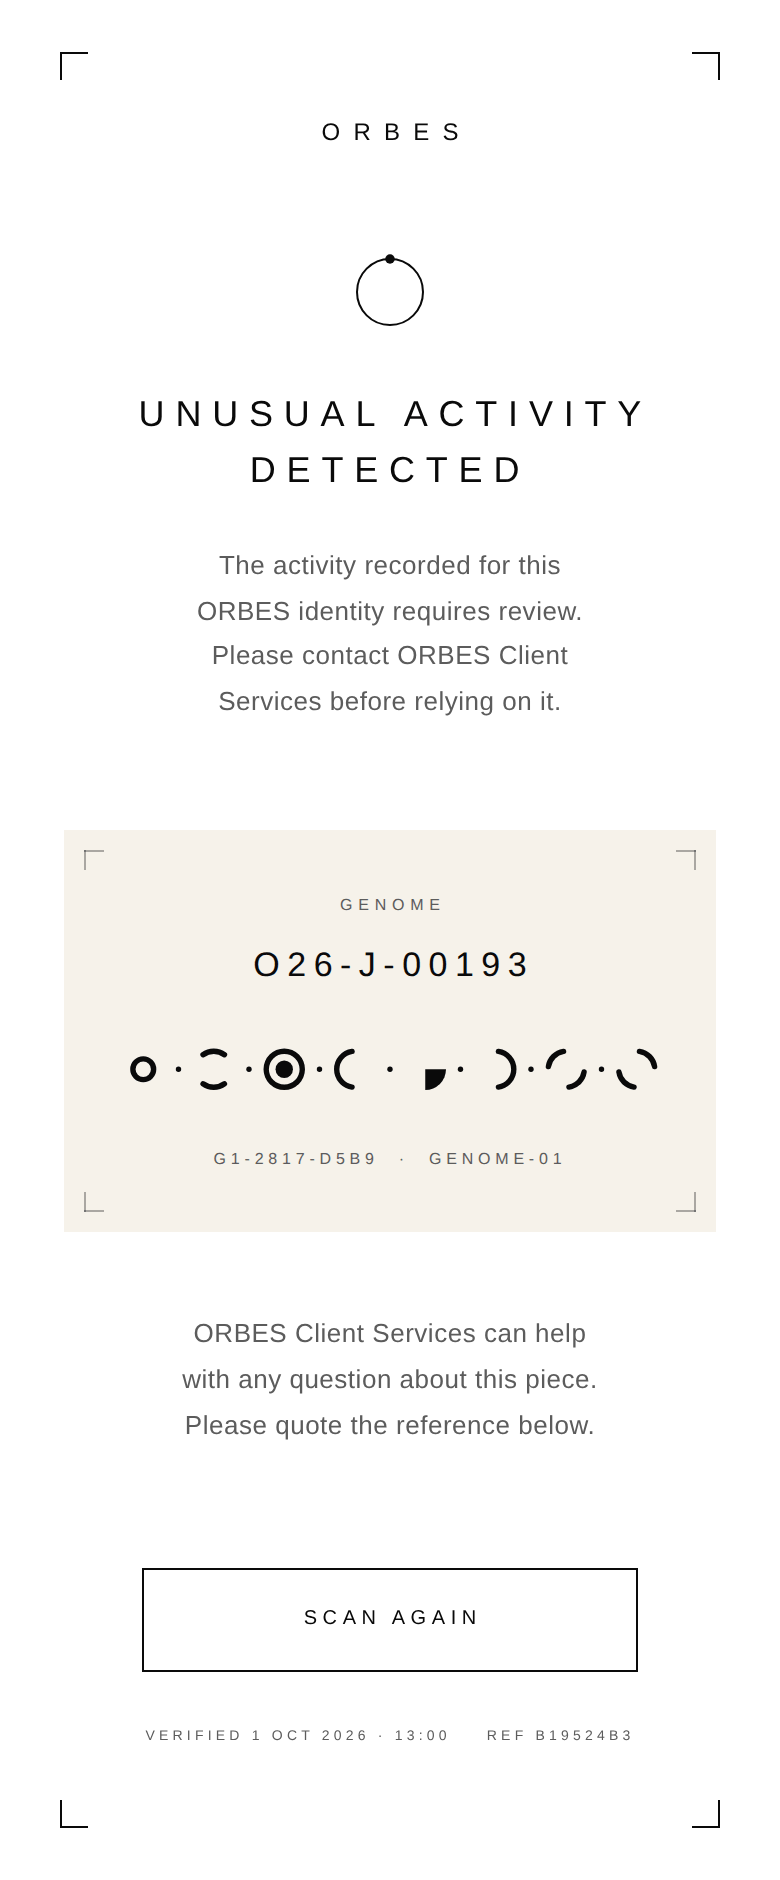
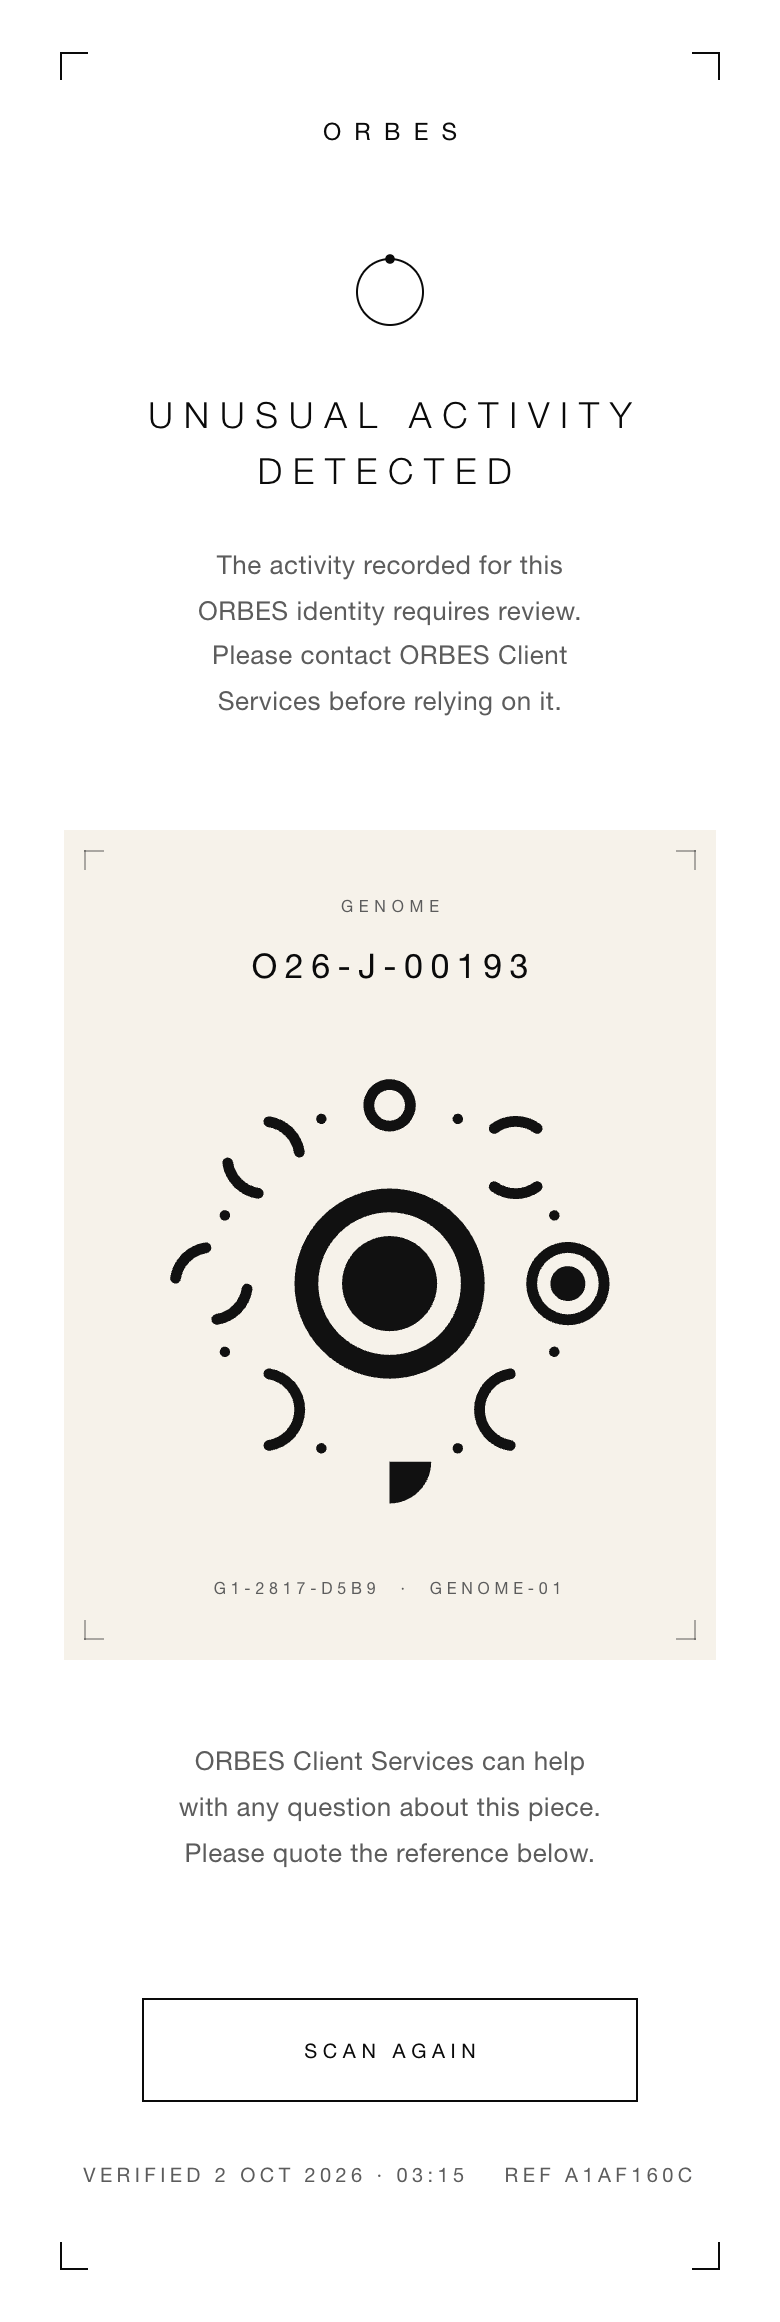
Verify: the result page draws the GENOME in its orbit around the SEAL, as on the piece
genomeBlock asks genomeRow for the orbit layout, the figure of the console
and of the code (glyph 0 at north, then clockwise, absolute orientation);
the fingerprint cross-check and the aria-label are unchanged. The orbit is
a centred square of min(64vw, 260px) on the ivory plate, whose margins do
not change: glyphs of about 43 px, 42 px on a 390 px phone (21 px before).
No polaris marker: it would come only as a renderGenomeSvg option after
brand validation.

Tests: the e2e selectors no longer depend on the layout and check the seal
layer, the eight genome groups and the drawn size; a brand test pins the
orbit call, its identity with the console figure and the CSS size.
Docs: ORBES-GENOME-SPEC §5.2, BRAND §2.3, §2.6 and §5; the two captures
that show the GENOME are regenerated.

diff --git a/genome/test/web/verify.brand.test.ts b/genome/test/web/verify.brand.test.ts
@@ -9,8 +9,9 @@ import { fileURLToPath } from 'node:url';
 import { describe, expect, it } from 'vitest';
 import { CODE01 } from '../../src/core/code/profile.js';
 import { ORBES_CODE_STYLES } from '../../src/core/code/styles.js';
-import { computeGenome } from '../../src/core/genome/index.js';
+import { computeGenome, genomeLayout } from '../../src/core/genome/index.js';
 import { packIdentity } from '../../src/core/identity.js';
+import { genomeFigureMarkup } from '../../src/web/admin/ui/figures.js';
 import { genomeRowMarkup } from '../../src/web/verify/genome-view.js';
 import { registrationStatus } from '../../src/web/verify/view-model.js';
 
@@ -33,6 +34,9 @@ function rule(css: string, selector: string): Record<string, string> {
   return out;
 }
 
+const G184 = computeGenome(packIdentity({ year: 2026, categoryIndex: 1, serial: 184 }), 1);
+const GENOME_184 = { id: 'O26-J-00184', version: 'GENOME-01', versionNumber: 1, fingerprint: G184.fingerprint, glyphs: [...G184.glyphs], ids: [...G184.ids] };
+
 const tokens: Record<string, string> = {};
 for (const m of brand.matchAll(/^\s*(--[\w-]+):\s*([^;]+);/gm)) tokens[m[1]] = m[2].trim();
 const resolve = (v: string): string => v.replace(/var\((--[\w-]+)\)/g, (_, t: string) => tokens[t] ?? t);
@@ -46,11 +50,12 @@ describe('verify app: brand deviations (BRAND-DESIGN-SYSTEM §8)', () => {
   });
 
   it('draws the GENOME on its ivory plate in the ivory colourway ink (#111111), as it is printed', () => {
-    const g = computeGenome(packIdentity({ year: 2026, categoryIndex: 1, serial: 184 }), 1);
-    const markup = genomeRowMarkup({ id: 'O26-J-00184', version: 'GENOME-01', versionNumber: 1, fingerprint: g.fingerprint, glyphs: [...g.glyphs], ids: [...g.ids] });
-    expect(markup).not.toBeNull();
-    const inks = new Set([...markup!.matchAll(/(?:fill|stroke)="([^"]+)"/g)].map((m) => m[1]).filter((v) => v !== 'none'));
-    expect([...inks]).toEqual([ORBES_CODE_STYLES.ivory.ink]);
+    for (const layout of ['orbit', 'row'] as const) {
+      const markup = genomeRowMarkup(GENOME_184, { layout });
+      expect(markup, layout).not.toBeNull();
+      const inks = new Set([...markup!.matchAll(/(?:fill|stroke)="([^"]+)"/g)].map((m) => m[1]).filter((v) => v !== 'none'));
+      expect([...inks], layout).toEqual([ORBES_CODE_STYLES.ivory.ink]);
+    }
     expect(rule(styles, '.result__genome').background).toBe('var(--ivory)');
     expect(tokens['--ivory']?.toLowerCase()).toBe(ORBES_CODE_STYLES.ivory.paper.toLowerCase());
   });
@@ -106,6 +111,38 @@ describe('verify app: brand deviations (BRAND-DESIGN-SYSTEM §8)', () => {
       const used = [brand, styles, admin].some((css) => css.includes(`var(${t})`));
       expect(used, t).toBe(true);
     }
+  });
+});
+
+describe('verify app: the GENOME in its orbit, as on the piece (BRAND-DESIGN-SYSTEM §2.3, §2.6)', () => {
+  it('draws the result GENOME in the orbit layout, the figure of the console and of the code', () => {
+    const view = readFileSync(join(WEB, 'verify/genome-view.ts'), 'utf8');
+    const block = view.slice(view.indexOf('export function genomeBlock'));
+    expect(block).toContain("genomeRow(m, { layout: 'orbit' })");
+    // The same core renderer, the same ink and the same geometry as the console's product page.
+    const json = { id: 'g', productId: GENOME_184.id, version: 1, versionLabel: 'GENOME-01', value: G184.value, glyphs: [...G184.glyphs], ids: [...G184.ids], pattern: '', fingerprint: G184.fingerprint, createdAt: '2026-01-01T00:00:00.000Z' };
+    expect(genomeRowMarkup(GENOME_184, { layout: 'orbit' })).toBe(genomeFigureMarkup(json, 'orbit'));
+    // The seal at the centre, then one group per glyph (glyph 0 at north, clockwise: genomeLayout).
+    const markup = genomeRowMarkup(GENOME_184, { layout: 'orbit' })!;
+    expect(markup.match(/data-layer="seal"/g)).toHaveLength(1);
+    expect(markup.match(/data-layer="genome"/g)).toHaveLength(CODE01.genome.count);
+  });
+
+  it('sizes the orbit as a centred square of min(64vw, 260px): glyphs of about 43 px, never under the 12 px floor', () => {
+    const orbit = rule(styles, '.genome-svg--orbit');
+    expect(orbit.width).toBe('min(64vw, 260px)');
+    expect(orbit['aspect-ratio']).toBe('1');
+    expect(orbit.margin).toBe('0 auto');
+    const { viewBox, glyphRadius } = genomeLayout(G184, 'orbit');
+    expect(viewBox.w).toBe(viewBox.h);
+    const glyphPx = (side: number) => (side * 2 * glyphRadius) / viewBox.w;
+    expect(glyphPx(260)).toBeCloseTo(43, 0);
+    // 390 px phone: 64vw = 249.6 px; the smallest phone in use (320 px) still draws 34 px glyphs.
+    expect(glyphPx(0.64 * 390)).toBeGreaterThan(41);
+    expect(glyphPx(0.64 * 320)).toBeGreaterThan(12);
+    // The ivory plate keeps its margins (§2.5: 34 / 22 / 28 px).
+    expect(rule(styles, '.result__genome').padding).toBe('34px 22px 28px');
+    expect(rule(styles, '.result__genome')['margin-top']).toBe('52px');
   });
 });
 

diff --git a/genome/src/web/verify/genome-view.ts b/genome/src/web/verify/genome-view.ts
@@ -1,7 +1,12 @@
 /**
- * The GENOME glyph row, drawn by the core renderer (renderGenomeSvg) exactly
- * as it is defined for print, so the screen, the PDF certificate and the
- * printed code show the same eight glyphs.
+ * The GENOME figure, drawn by the core renderer (renderGenomeSvg) exactly as
+ * it is defined for print, so the screen, the PDF certificate and the printed
+ * code show the same eight glyphs.
+ *
+ * The result page draws them in their orbit around the SEAL, as they sit on
+ * the piece and in the console (glyph 0 at north, then clockwise, each glyph
+ * in its absolute orientation): the customer compares the screen with the
+ * object at a glance, without unrolling the orbit in their head.
  *
  * The glyphs come from the server's verification outcome. They are recomputed
  * here only to cross-check the fingerprint the server sent: a mismatch means
@@ -27,10 +32,10 @@ export function genomeFromModel(m: GenomeModel): Genome | null {
 }
 
 /**
- * SVG markup of the glyph row, or null when it cannot be drawn faithfully.
- * The GENOME sits on an ivory plate (`.result__genome`), so it is drawn in
- * the ivory colourway's ink, exactly as the ivory code prints it
- * (BRAND-DESIGN-SYSTEM §2.4).
+ * SVG markup of the GENOME (glyph row by default, or the orbit), or null when
+ * it cannot be drawn faithfully. The GENOME sits on an ivory plate
+ * (`.result__genome`), so it is drawn in the ivory colourway's ink, exactly
+ * as the ivory code prints it (BRAND-DESIGN-SYSTEM §2.4).
  */
 export function genomeRowMarkup(m: GenomeModel, opts: { layout?: 'row' | 'orbit' } = {}): string | null {
   const genome = genomeFromModel(m);
@@ -38,7 +43,7 @@ export function genomeRowMarkup(m: GenomeModel, opts: { layout?: 'row' | 'orbit'
   return renderGenomeSvg(genome, { layout: opts.layout ?? 'row', ink: ORBES_CODE_STYLES.ivory.ink, paper: null });
 }
 
-/** The glyph row as an inline SVG (ivory colourway ink), or null when it cannot be drawn faithfully. */
+/** The GENOME as an inline SVG (ivory colourway ink), or null when it cannot be drawn faithfully. */
 export function genomeRow(m: GenomeModel, opts: { layout?: 'row' | 'orbit' } = {}): SVGSVGElement | null {
   const markup = genomeRowMarkup(m, opts);
   if (markup === null) return null;
@@ -51,15 +56,15 @@ export function genomeRow(m: GenomeModel, opts: { layout?: 'row' | 'orbit' } = {
   return svg;
 }
 
-/** The GENOME block: label, product id, glyph row, fingerprint. */
+/** The GENOME block: label, product id, the glyphs in their orbit around the SEAL, fingerprint. */
 export function genomeBlock(m: GenomeModel): HTMLElement {
-  const row = genomeRow(m);
+  const figure = genomeRow(m, { layout: 'orbit' });
   return h(
     'section',
     { class: 'genome', attrs: { 'aria-labelledby': 'genome-label' } },
     h('h2', { class: 'genome__label micro', id: 'genome-label', text: 'GENOME' }),
     h('p', { class: 'genome__id', text: m.id }),
-    row ? h('div', { class: 'genome__glyphs' }, row) : null,
+    figure ? h('div', { class: 'genome__glyphs' }, figure) : null,
     h('p', { class: 'genome__meta nano soft' }, h('span', { text: m.fingerprint }), h('span', { class: 'sep', attrs: { 'aria-hidden': 'true' }, text: '·' }), h('span', { text: m.version })),
   );
 }

diff --git a/genome/test/web/verify.e2e.test.ts b/genome/test/web/verify.e2e.test.ts
@@ -14,9 +14,10 @@ import { dirname, join } from 'node:path';
 import { fileURLToPath } from 'node:url';
 import type { Browser, ConsoleMessage, Locator, Page } from 'playwright-core';
 import { afterAll, beforeAll, describe, expect, it } from 'vitest';
+import { genomeLayout } from '../../src/core/genome/render.js';
 import type { IssueResult } from '../../src/server/services/issuance.js';
 import { SYSTEM_ACTOR } from '../../src/server/types.js';
-import { CHROMIUM_PATH, launchChromium, mobileContext, startVerifyServer, writeCameraY4m, writeCodePng, type VerifyServer } from './verify.harness.js';
+import { CHROMIUM_PATH, launchChromium, MOBILE_VIEWPORT, mobileContext, startVerifyServer, writeCameraY4m, writeCodePng, type VerifyServer } from './verify.harness.js';
 
 const OUT_DIR = join(dirname(fileURLToPath(import.meta.url)), '..', '..', 'out');
 const HAS_CHROMIUM = existsSync(CHROMIUM_PATH);
@@ -130,8 +131,21 @@ describe.skipIf(!HAS_CHROMIUM)('verify web app (Chromium, mobile)', () => {
     await textOf(page.locator('.genome__id'), plain.product.productId);
     expect(plain.product.productId).toBe('O26-J-00184');
     await textsOf(page.locator('.lines__line'), ['MONOLITHE', 'RING', 'JEWELRY', '925 STERLING SILVER', 'CREATED 2026']);
-    // The genome row is drawn from the core renderer, one path group per glyph.
-    await attrOf(page.locator('.genome-svg--row'), 'aria-label', new RegExp(plain.genome.fingerprint));
+    // The GENOME is drawn from the core renderer, in its orbit around the SEAL as on the piece:
+    // the seal layer, then one path group per glyph.
+    const genome = page.locator('.genome__glyphs .genome-svg');
+    await attrOf(genome, 'aria-label', new RegExp(plain.genome.fingerprint));
+    await attrOf(genome, 'class', /\bgenome-svg--orbit\b/);
+    await countOf(genome.locator('g[data-layer="seal"]'), 1);
+    await countOf(genome.locator('g[data-layer="genome"]'), 8);
+    // A square of min(64vw, 260px): glyphs of about 42 px on this 390 px phone (43 px from 407 px).
+    const box = await genome.boundingBox();
+    expect(box).not.toBeNull();
+    expect(box!.width).toBeCloseTo(Math.min(0.64 * MOBILE_VIEWPORT.width, 260), 0);
+    expect(box!.height).toBeCloseTo(box!.width, 0);
+    expect(box!.x + box!.width / 2).toBeCloseTo(MOBILE_VIEWPORT.width / 2, 0);
+    const orbit = genomeLayout(plain.genome, 'orbit');
+    expect((box!.width * 2 * orbit.glyphRadius) / orbit.viewBox.w).toBeGreaterThan(41);
     await textsOf(page.getByRole('tab'), ['PRODUCT', 'WARRANTY', 'CARE', 'OWNERSHIP']);
     await attrOf(page.getByRole('tab', { name: 'PRODUCT' }), 'aria-selected', 'true');
     // Honest limits are stated on every positive result.

diff --git a/genome/test/e2e/camera-scan.test.ts b/genome/test/e2e/camera-scan.test.ts
@@ -208,7 +208,11 @@ describe.skipIf(!HAS_CHROMIUM)('E2E camera scan: real browser, fake camera, real
         await textOf(page.locator('#result-title'), 'AUTHENTIC');
         await textOf(page.locator('.genome__id'), 'O26-J-00184');
         expect((await page.locator('.lines__line').allInnerTexts()).map(norm)).toEqual(['MONOLITHE', 'RING', 'JEWELRY', '925 STERLING SILVER', 'CREATED 2026']);
-        expect(await page.locator('.genome-svg--row').getAttribute('aria-label')).toContain(issued.genome.fingerprint);
+        // The GENOME in its orbit around the SEAL, as on the piece: the seal layer and one group per glyph.
+        const genome = page.locator('.genome__glyphs .genome-svg');
+        expect(await genome.getAttribute('aria-label')).toContain(issued.genome.fingerprint);
+        expect(await genome.locator('g[data-layer="seal"]').count()).toBe(1);
+        expect(await genome.locator('g[data-layer="genome"]').count()).toBe(8);
         expect((await page.getByRole('tab').allInnerTexts()).map(norm)).toEqual(['PRODUCT', 'WARRANTY', 'CARE', 'OWNERSHIP']);
 
         const timeline = await readTimeline(page);

diff --git a/genome/src/web/verify/styles.css b/genome/src/web/verify/styles.css
@@ -644,6 +644,15 @@ h1[tabindex="-1"]:focus {
   height: auto;
 }
 
+/* The orbit, as on the piece: a centred square. A glyph is 3.5 u of the 21 u
+   figure, so 260 px draws it at about 43 px (42 px on a 390 px phone). */
+.genome-svg--orbit {
+  width: min(64vw, 260px);
+  height: auto;
+  aspect-ratio: 1;
+  margin: 0 auto;
+}
+
 .genome__meta {
   display: flex;
   justify-content: center;

diff --git a/docs/BRAND-DESIGN-SYSTEM.md b/docs/BRAND-DESIGN-SYSTEM.md
@@ -111,8 +111,10 @@ Two layouts, both drawn by the core renderer `renderGenomeSvg`:
 
 | Layout | Geometry | Used in |
 |---|---|---|
-| **Row** | Glyph pitch 3.4 R; separator points r 0.13 R between glyphs; margin 0.7 R | Verification result (the GENOME specimen) |
-| **Orbit** | Glyph 0 at north, then clockwise every 45° on radius 7.5 u; glyph R = 1.75 u; separator points r 0.22 u at the half-steps; SEAL at the centre; margin 1.25 u | Console product page and generator; the inner orbit of every code |
+| **Row** | Glyph pitch 3.4 R; separator points r 0.13 R between glyphs; margin 0.7 R | Certificate card (§7); console genome list |
+| **Orbit** | Glyph 0 at north, then clockwise every 45° on radius 7.5 u; glyph R = 1.75 u; separator points r 0.22 u at the half-steps; SEAL at the centre; margin 1.25 u | Verification result (the GENOME specimen); console product page and generator; the inner orbit of every code |
+
+**On the verification page, the orbit** (since 2026-10-02). The GENOME is the one mark that belongs to a single piece; the result page draws it as it sits on the piece, around the SEAL, in the same order and orientation, so the customer compares screen and object at a glance instead of unrolling the orbit in their head. It is the same figure as the console's (`genomeBlock` calls `genomeRow(m, { layout: 'orbit' })`, `genome/src/web/verify/genome-view.ts`; the fingerprint cross-check and the spoken label are unchanged). No north marker is drawn: glyph 0 is at the top, where it sits when the code's polaris is at the top left. A polaris marker would come only as an option of `renderGenomeSvg`, after brand validation, and would not change the console figure.
 
 Specimen of the vocabulary: [`assets/genome-01-vocabulary.svg`](assets/genome-01-vocabulary.svg) (§7).
 
@@ -156,7 +158,7 @@ The physical size of a code is the side of its 50 u square, quiet zone included.
 | ORBES CODE, light on dark (white on black, foil on dark leather) | 25 mm, only after a passed physical test-sheet run | print-size matrix: simulated minimum 20 mm, recommended 25 mm for white on black. |
 | Absolute floor, whatever a test shows | 17.5 mm | [scan matrix](reports/scan-matrix.md): ≥ 95 % from 3.50 px/u under the low-light preset at ≈ 10 px/mm, "do not print below 17.5 mm … prefer 25 mm or more". |
 | GENOME glyph, printed standalone | 2.1 mm glyph diameter | Its size inside a 30 mm code (3.5 u × 0.6 mm). No standalone print study exists. |
-| GENOME glyph, on screen | 12 px glyph diameter | [Symbol study](reports/genome-symbol-study.md): 100 % template classification from 12 px (99.09 % at 8 px). The verify specimen renders glyphs at ≈ 21 px on a 390 px screen. |
+| GENOME glyph, on screen | 12 px glyph diameter | [Symbol study](reports/genome-symbol-study.md): 100 % template classification from 12 px (99.09 % at 8 px). The verify specimen draws the orbit as a centred square of `min(64vw, 260px)` (`.genome-svg--orbit`): a glyph is 3.5 u of 21 u, so ≈ 43 px from a 407 px screen, ≈ 42 px on a 390 px one and ≈ 34 px on a 320 px one (it was ≈ 21 px in the row layout). |
 | ORBES SEAL, printed standalone | 4.8 mm diameter | Its size inside a 30 mm code (8 u). |
 
 The renderer accepts 10–500 mm (`ARTIFACT_LIMITS`). That is a technical bound for memory and resolution, not a brand permission: the console warns under 30 mm and refuses under 15 mm unless the operator checks *Test print* (`artifactSizeAdvice`, `genome/src/web/admin/model/generator.ts`).
@@ -565,7 +567,7 @@ The scanner decodes only the square under the reticle (×1.45 margin), at most e
 
 <table>
 <tr>
-<td width="40%"><img src="assets/ui/verify-04-result-first-registration.png" width="300" alt="Result for O26-J-00184: AUTHENTIC — FIRST REGISTRATION, GENOME specimen on ivory, product lines, tabs with OWNERSHIP selected, footnote"></td>
+<td width="40%"><img src="assets/ui/verify-04-result-first-registration.png" width="300" alt="Result for O26-J-00184: AUTHENTIC — FIRST REGISTRATION, GENOME specimen on ivory with the eight glyphs in their orbit around the seal, product lines, tabs with OWNERSHIP selected, footnote"></td>
 <td valign="top">
 <b>4 · Result, O26-J-00184 — AUTHENTIC · FIRST REGISTRATION.</b> From top to bottom:
 <ol>
@@ -573,12 +575,12 @@ The scanner decodes only the square under the reticle (×1.45 margin), at most e
 <li>the state mark (here the authentic seal echo);</li>
 <li>the title, split at the dash into a 24 px main word and a tracked sub-title;</li>
 <li>one sentence from the server;</li>
-<li>the <b>GENOME specimen</b>: an ivory plate framed by hairline brackets, with the product id, the eight glyphs drawn by the core renderer (the same function as print) and the fingerprint <code>G1-E1DC-BE52 · GENOME-01</code>;</li>
+<li>the <b>GENOME specimen</b>: an ivory plate framed by hairline brackets, with the product id, the eight glyphs in their orbit around the SEAL as on the piece (glyph 0 at north, then clockwise), drawn by the core renderer (the same function as print), and the fingerprint <code>G1-E1DC-BE52 · GENOME-01</code>;</li>
 <li>the product lines MODEL / TYPE / CATEGORY / MATERIAL / CREATED YYYY;</li>
 <li>the tabs PRODUCT · WARRANTY · CARE · OWNERSHIP, opening on OWNERSHIP because registration is open (PRODUCT otherwise);</li>
 <li>SCAN ANOTHER, the honest footnote, and the VERIFIED · REF line.</li>
 </ol>
-The client recomputes the genome from the glyphs it received and draws the row only if it matches the server's fingerprint. Product lines and tabs appear only for the four AUTHENTIC states; the GENOME appears whenever the server sends it (authentic, unusual activity, revoked).
+The client recomputes the genome from the glyphs it received and draws the orbit only if it matches the server's fingerprint. Product lines and tabs appear only for the four AUTHENTIC states; the GENOME appears whenever the server sends it (authentic, unusual activity, revoked).
 </td>
 </tr>
 </table>
@@ -602,7 +604,7 @@ Tabs follow the ARIA tablist pattern (arrow keys, Home, End, roving tab index); 
 <table>
 <tr>
 <td width="33%"><img src="assets/ui/verify-09-verifying.png" width="250" alt="VERIFYING… with a moon orbiting a faint ring"></td>
-<td width="33%"><img src="assets/ui/verify-10-unusual-activity.png" width="250" alt="UNUSUAL ACTIVITY DETECTED for O26-J-00193, caution mark, GENOME specimen, help text, SCAN AGAIN"></td>
+<td width="33%"><img src="assets/ui/verify-10-unusual-activity.png" width="250" alt="UNUSUAL ACTIVITY DETECTED for O26-J-00193, caution mark, GENOME specimen in its orbit, help text, SCAN AGAIN"></td>
 <td width="33%"><img src="assets/ui/verify-11-invalid-signature.png" width="250" alt="INVALID SIGNATURE, empty orbit mark, help text, SCAN AGAIN"></td>
 </tr>
 <tr>

diff --git a/docs/ORBES-GENOME-SPEC.md b/docs/ORBES-GENOME-SPEC.md
@@ -137,8 +137,10 @@ In the code, glyph *i* is drawn with R = 1.75 u, centred at radius 7.5 u and ang
 
 | Layout | Use | Description |
 |---|---|---|
-| **Row** | Verification page, certificates, packaging | The 8 glyphs in reading order, separated by small centred points: `◟ · ◉ · ◞ · ◝ · ⤡ · ◟ · ) · ◦`. |
-| **Orbit** | Hero presentation, engraving | The 8 glyphs on a circle around a small ORBES SEAL, mirroring the code. |
+| **Row** | Certificate card, packaging, console genome list | The 8 glyphs in reading order, separated by small centred points: `◟ · ◉ · ◞ · ◝ · ⤡ · ◟ · ) · ◦`. |
+| **Orbit** | Verification page, console product page and generator, hero presentation, engraving | The 8 glyphs on a circle around a small ORBES SEAL, mirroring the code: glyph 0 at north, then clockwise, each glyph in its absolute orientation. |
+
+The verification page draws the **orbit** (since 2026-10-02), so a customer can compare the screen with the piece in hand at a glance: same glyphs, same order, same orientation, same SEAL at the centre. On screen the figure is a centred square of `min(64vw, 260px)`; a glyph is 3.5 u of the figure's 21 u, so it is drawn at about 43 px (42 px on a 390 px phone, 34 px on a 320 px one), well above the 12 px from which the symbol study classifies every glyph (§4.1). The figure carries no north marker: glyph 0 is at the top, where it sits on the piece when the code's polaris moon (the haloed one) is at the top left. A polaris marker would only come as an option of `renderGenomeSvg`, once the brand validates it, without changing the console figure.
 
 The plain-text hint (`◟◉◞◝⤡◟)◦`) may be used in logs and plain-text channels. It is an approximation only.
 
